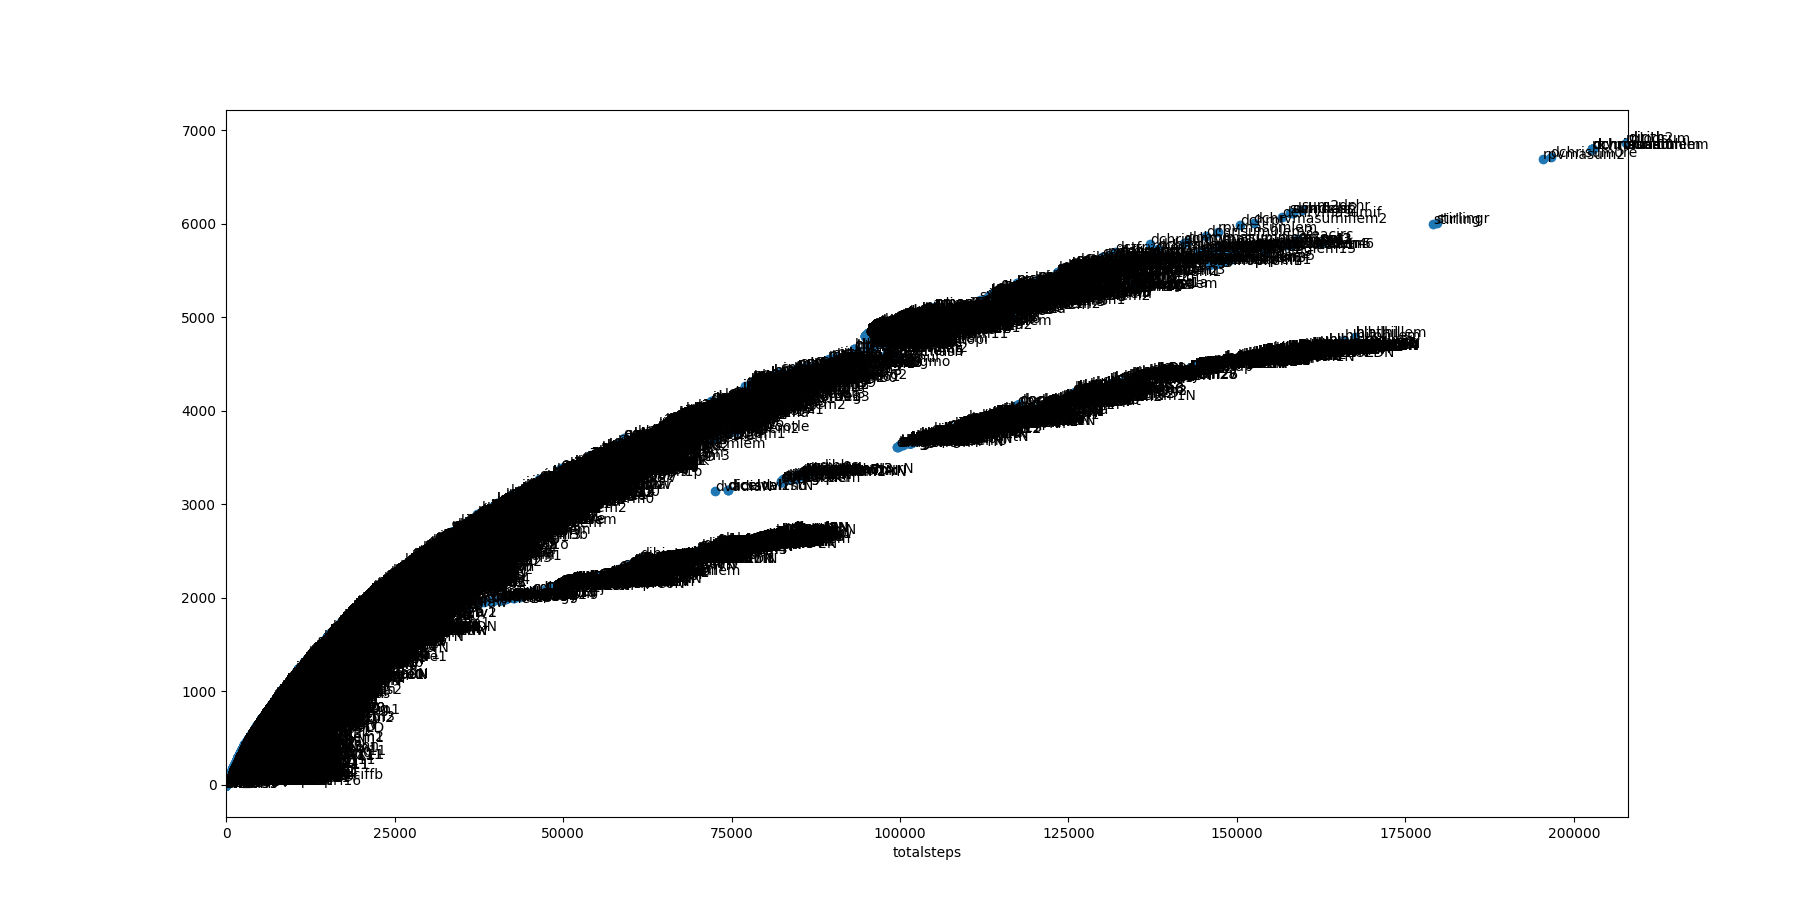
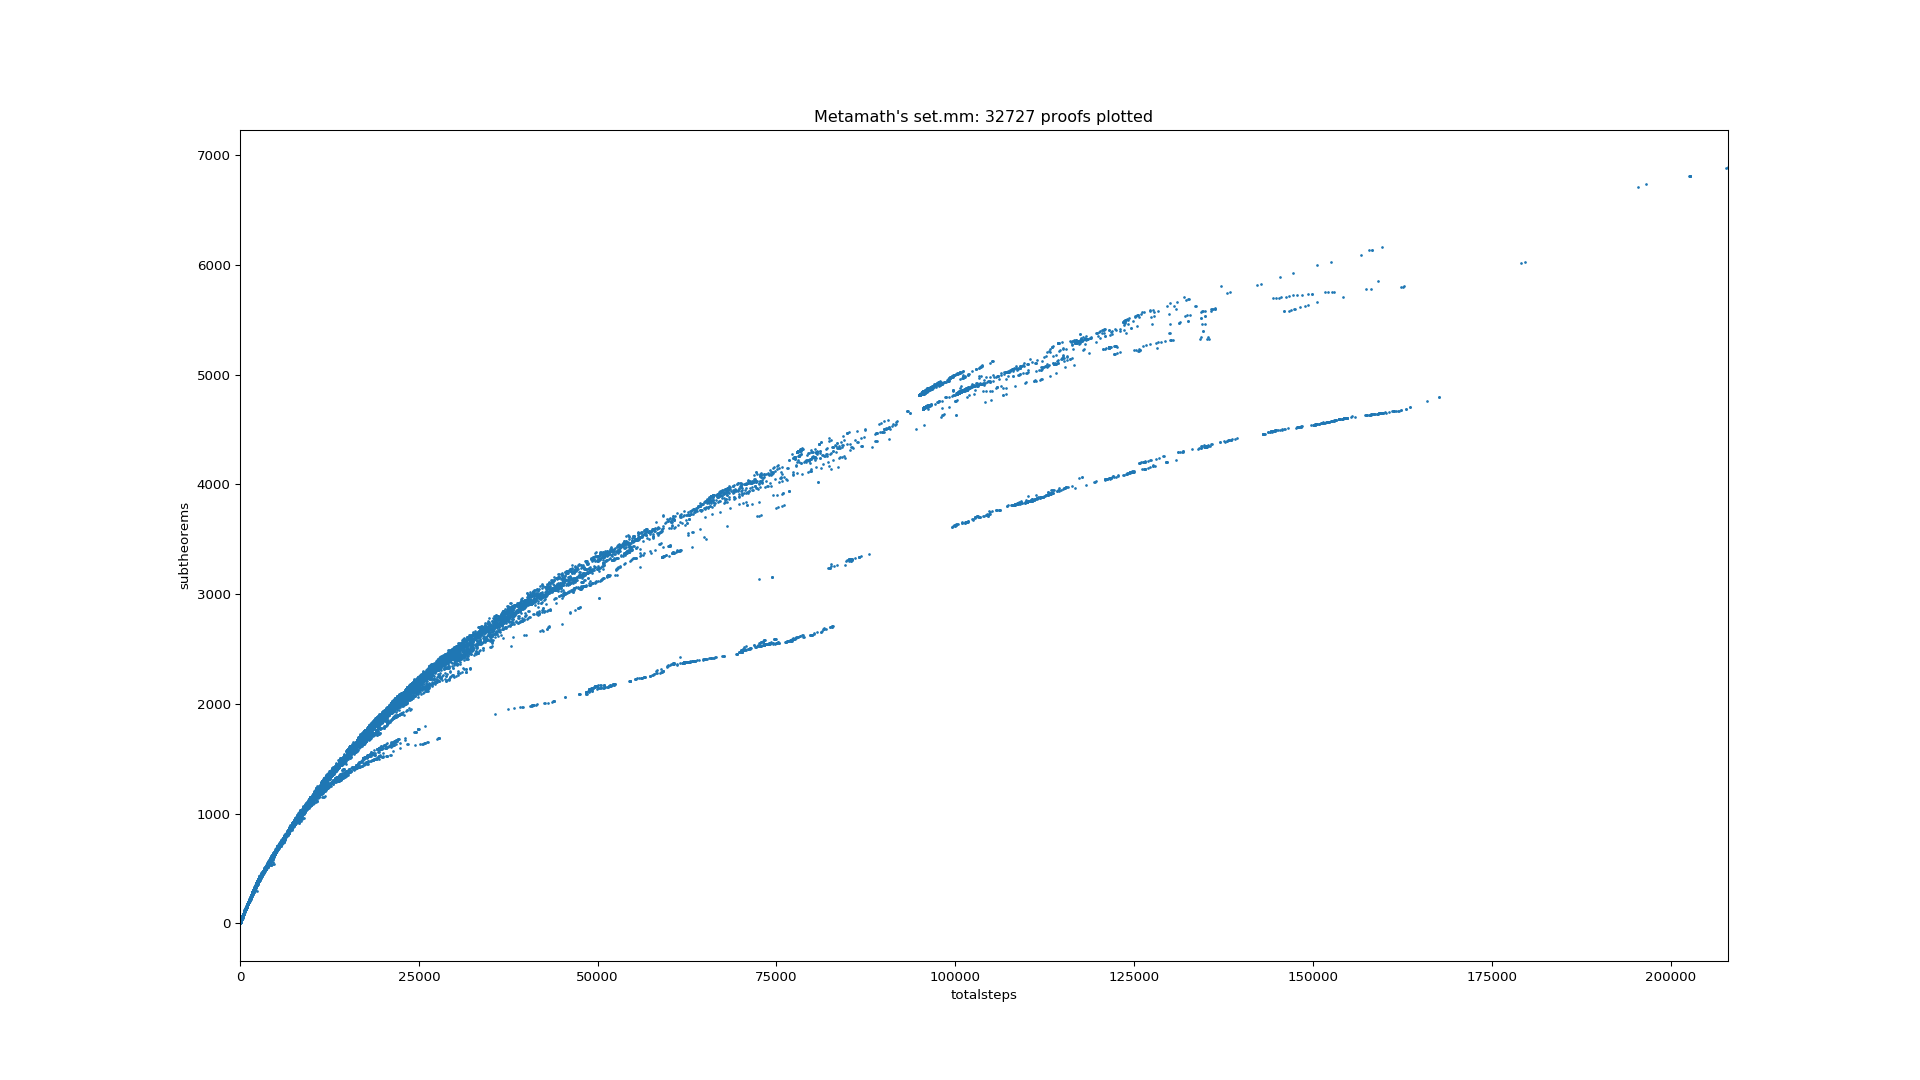
Improve plot saving, update Figure_2

diff --git a/plotit.py b/plotit.py
@@ -1,6 +1,13 @@
 import pandas as pd
 import matplotlib.pyplot as plt
 import numpy as np
+from time import time
+
+DPI = 96
+WIDTH = 1920
+HEIGHT = 1080
+
+plt.figure(figsize=(WIDTH/DPI, HEIGHT/DPI), dpi=DPI)
 
 names = "thm, steps, subtheorems_dup, totalsteps_dup, subtheorems, totalsteps, expandedsteps, maxpathlength".split(", ")
 #"metamath-exe/out2.csv"
@@ -14,15 +21,17 @@ with open("new.csv", "w+") as f:
 df = pd.read_csv("new.csv", sep="\t", header=None, names=names)#remove 1
 print(df)
 
+plt.title("Metamath's set.mm: %i proofs plotted" % len(df))
+
 NSAMPLE = 1
 
 df = df.sample(len(df)//NSAMPLE)
 
-X = "maxpathlength"
-Y = "expandedsteps"
+X = "totalsteps"
+Y = "subtheorems"
 
 XLOG = False
-YLOG = True
+YLOG = False
 
 df[X] = df[X].astype("float")
 df[Y] = df[Y].astype("float")
@@ -48,5 +57,7 @@ def label_point(x, y, val, ax):
         ax.text(point['x'], point['y'], str(point['val']))
 
 #label_point(df[X], df[Y], df.thm, ax)
-#plt.savefig("figure.png")
+
+
+plt.savefig("images/%i.png" % int(time()), dpi=DPI)
 plt.show()
